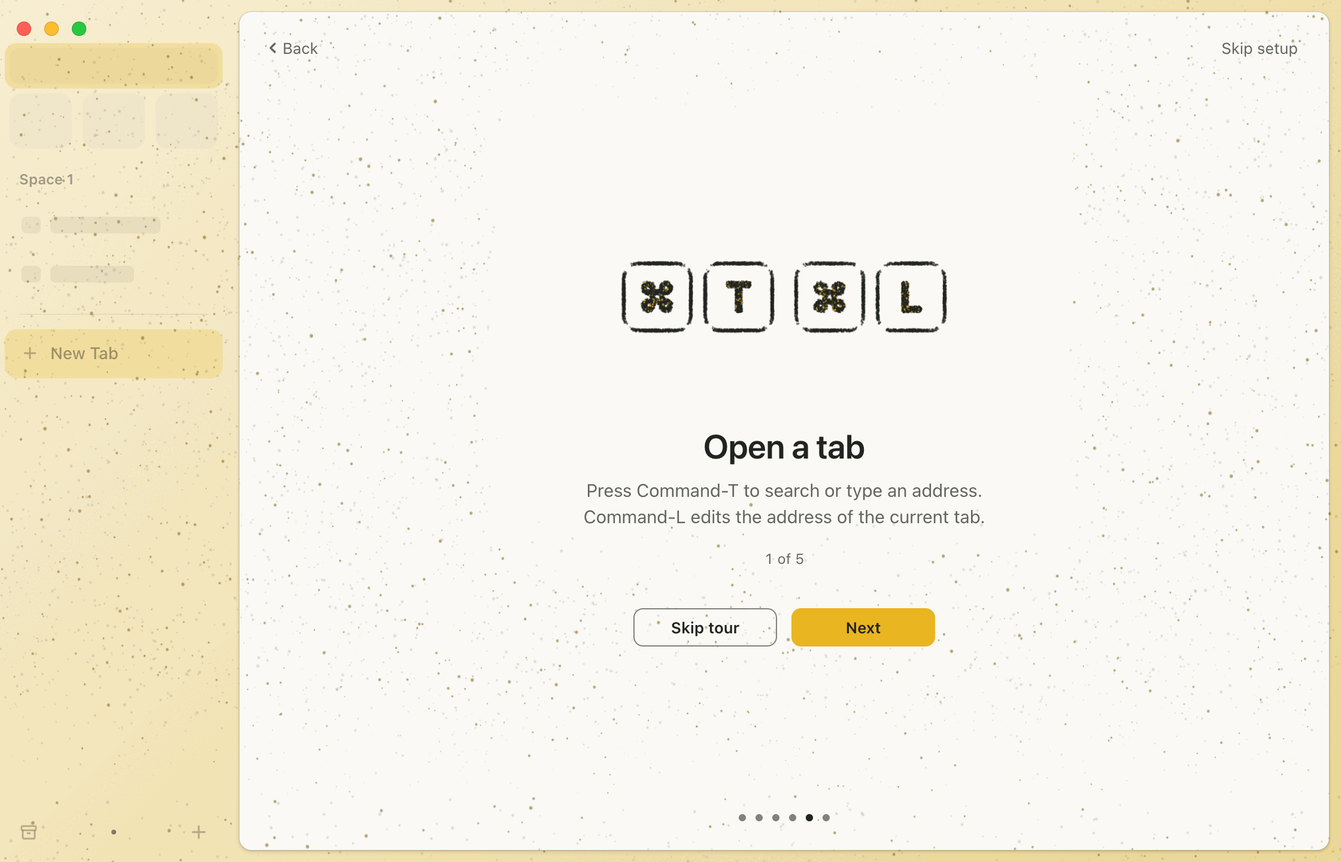
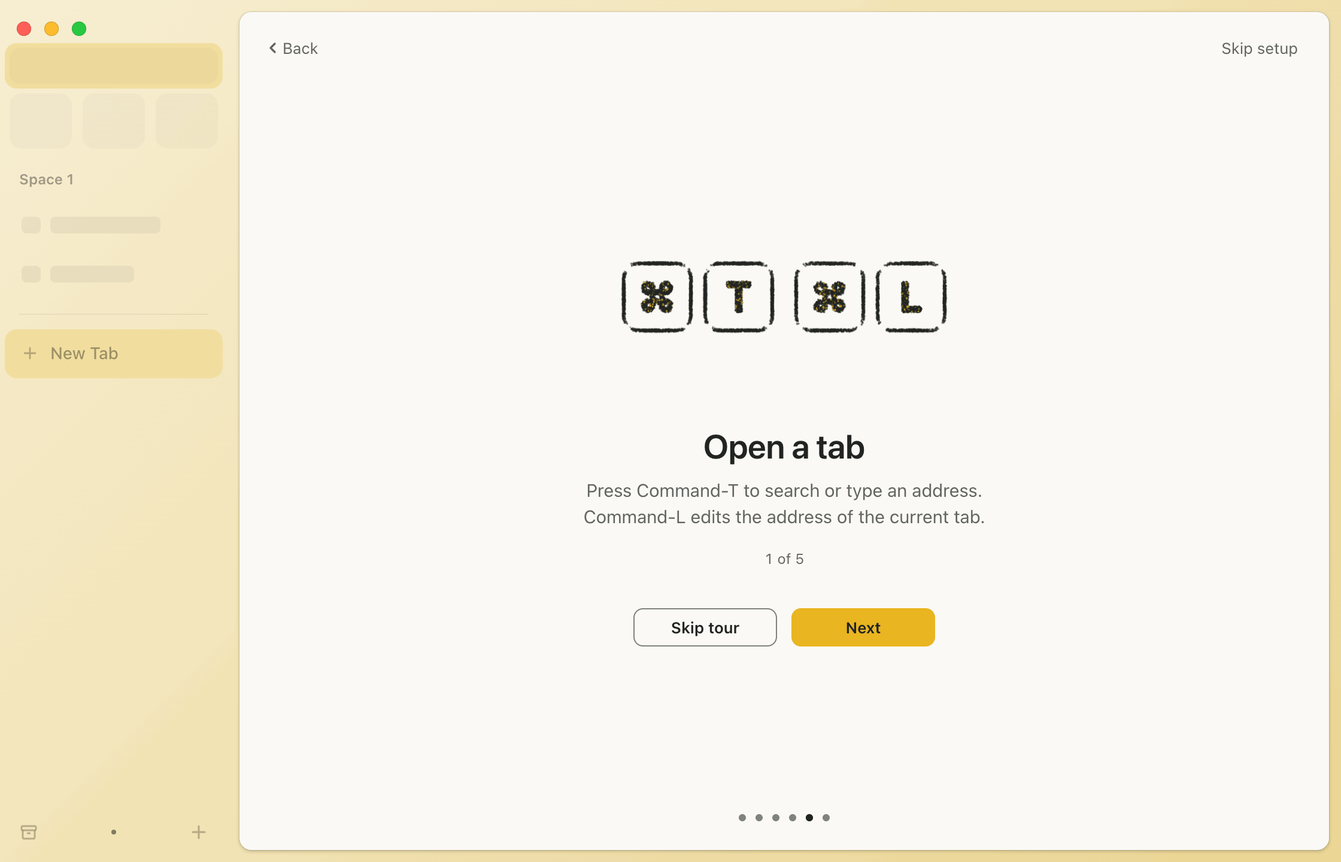
Onboarding spec: particle field section, native Metal spec, motion rows (refs #303)

diff --git a/design/onboarding/prototype.html b/design/onboarding/prototype.html
@@ -1637,7 +1637,7 @@ body.rt .cmdbar { background: #1C1C20; }
       precision highp float; precision highp int; precision highp sampler2D;
       uniform sampler2D uPos, uVel, uCol, uFP, uFA, uFC;
       uniform int uK0, uK1;
-      uniform float uSwitchT, uClock, uT, uDt, uStill, uReduce, uStagger, uFlowRate, uPan, uFade, uThDark, uThSwitch;
+      uniform float uSwitchT, uClock, uT, uDt, uStill, uReduce, uStagger, uFlowRate, uPan, uFade, uThDark, uThSwitch, uRT;
       uniform vec4 uBurst;
       uniform vec2 uView, uSpring;
       uniform vec3 uInk, uSbInk, uAccent, uThA, uThB, uThA0, uThB0;
@@ -1702,6 +1702,8 @@ body.rt .cmdbar { background: #1C1C20; }
           float focus = 1.0 - smoothstep(0.2, 1.0, abs(A.x - uPan));
           col.a *= mix(0.22, 1.0, focus) * step(A.z, p.x) * step(p.x, A.w);
         }
+        // Reduce Transparency: no background field; formation particles at least 60 % alpha.
+        if (uRT > 0.5) { if (mode > 0.5 && mode < 1.5 && k != ${FM.theme}) col.a = 0.0; else if (col.a > 0.01) col.a = max(col.a, 0.6); }
         col.a *= uFade;
       }
       void main() {
@@ -1814,7 +1816,7 @@ body.rt .cmdbar { background: #1C1C20; }
       const f1 = (n, v) => gl.uniform1f(U(sim, n), v);
       f1("uSwitchT", switchT); f1("uClock", clock); f1("uT", still ? 7.3 : animT); f1("uDt", dt);
       f1("uStill", still ? 1 : 0); f1("uReduce", opt.reduceMotion ? 1 : 0); f1("uStagger", opt.reduceMotion ? 0.3 : 0.55);
-      f1("uFlowRate", flowRate); f1("uPan", pan); f1("uFade", fade); f1("uThDark", thDark); f1("uThSwitch", thSwitch);
+      f1("uFlowRate", flowRate); f1("uPan", pan); f1("uFade", fade); f1("uThDark", thDark); f1("uThSwitch", thSwitch); f1("uRT", opt.reduceTransparency ? 1 : 0);
       gl.uniform4f(U(sim, "uBurst"), burst[0], burst[1], opt.reduceMotion ? 0 : burst[2], burst[3]);
       gl.uniform2f(U(sim, "uView"), W, H); gl.uniform2f(U(sim, "uSpring"), SPRING[0], SPRING[1]);
       const v3 = (n, v) => gl.uniform3f(U(sim, n), v[0], v[1], v[2]);

diff --git a/docs/design/onboarding.md b/docs/design/onboarding.md
@@ -9,6 +9,7 @@ Status: design. Nothing here is implemented yet.
 ## Contents
 
 - [Decisions (maintainer, 2026-10-25)](#decisions-maintainer-2026-10-25)
+- [Particle field](#particle-field) (the hero of the flow; native Metal spec)
 1. [Idea](#1-idea)
 2. [Flow](#2-flow)
 3. [Shared layout](#3-shared-layout)
@@ -52,6 +53,13 @@ Answers to the seven open questions of the first draft. The rest of this documen
 - Idle progress dots at full `brandControlBorder`, which is darkened to #80837C / #868A82 so it keeps 3:1 on the
   card and on the hover and pressed fills (sections 3, 4).
 
+### Particle field (maintainer request, 2026-10-25)
+
+The first version read as too simple. The brand particle field from arkt.dev is now the hero of every step: a cloud
+gathers into the mark on Welcome, Arc data streams in mustard into the sidebar on Import, the field re-tints with the
+chosen theme, each tour tip is drawn in particles, and the field folds onto the card as the first page appears. See
+[Particle field](#particle-field). Everything decided and reviewed above stays as it is.
+
 ## 1. Idea
 
 Onboarding happens inside the real browser window, not in a separate wizard window. The window is already there,
@@ -68,6 +76,11 @@ first page will later appear.
   icon update the sidebar title and the dock as you type.
 - **Done is the browser.** The last step does not close a window. The card turns into the first tab's page and the
   command bar opens, ready for an address.
+
+- **The particle field carries it all.** One field of about twenty thousand motes lives between the card surface and
+  its content. Every step is a shape made of it, built from real things (the mark's own pixels, the Arc sidebar's
+  data, the theme's gradient, the keys and gestures being taught), and the motes keep moving inside each shape. It is
+  the same system as the website's, so the app's first minute looks like the brand people saw before installing.
 
 Everything else stays quiet: one centered column, system type, the brand's porcelain and graphite, mustard only on the
 primary button. Motion is reserved for moments that explain something (the fold, the step direction, the import
@@ -239,7 +252,7 @@ sentences, the lowercase name only as the wordmark artwork.
 | | |
 |---|---|
 | Surface | Full-window `surfaceBrand` field above the sidebar and card, with grain at about half the theme grain opacity. Traffic lights stay visible above it |
-| Mark | `01-mustard-on-white.png` in light, `02-mustard-on-graphite.png` in dark, 112 x 112 pt, centered (clear space well above a quarter of the icon). Raster, scaled proportionally, no shadow or effect |
+| Mark | A 112 x 112 pt frame, centered (clear space well above a quarter of the icon). The mark appears only as particles sampled from `01-mustard-on-white.png` (formation `mark`). Without the particle layer it is the raster PNG (`01` light, `02` dark), scaled proportionally, no shadow or effect. The frame keeps the accessibility label "Arkt" either way |
 | Wordmark | `wordmark-graphite.png` in light, `wordmark-ivory.png` in dark, 90 x 38 pt (the 180 x 76 px source at 2x), 32 below the mark |
 | Descriptor | "A native macOS browser." SF Pro Display Regular 17/22, `brandTextSecondary`, 16 below the wordmark |
 | Primary | "Get started", 48 below the descriptor |
@@ -354,6 +367,9 @@ through tips before leaving the tour. A matching area of the ghost sidebar is hi
 | 4 | Split the view | Drag a tab from the sidebar onto the page to see two tabs side by side. | Mini window: a tab chip travels from the sidebar to the page, a drop zone shows, the page splits | Pinned rows | GS-011, BH-117 |
 | 5 | Keep Favorites close | Drag a tab to the top of the sidebar to make it a Favorite. | Mini window: a tab chip travels up into the Favorites row | Favorites | GS-008, BH-047 |
 
+With the particle layer, each tip's illustration is its particle formation (`tour1` to `tour5`, see
+[Particle field](#particle-field)); the key caps and mini-window demos below are the fallback without it.
+
 Key caps: 64 high, min 64 wide, radius 14, SF Pro Display Medium 28, `brandControlFill` with a hairline border and a
 3 pt hairline bottom edge. Key glyphs are the Command symbol and the letter, drawn as text, not images. Mini window:
 280 x 152, radius 12, a 72 wide sidebar strip and a page inset 4; the moving chip is an `accent` fill.
@@ -367,7 +383,7 @@ pinned, which the tip does not need to explain.
 
 | | |
 |---|---|
-| Mark | The app icon at 64 pt, 32 above the title |
+| Mark | A 64 pt mark frame, 32 above the title, drawn as particles (formation `doneMark`); the PNG icon without the particle layer |
 | Title | You're all set |
 | Body | Your Space is ready. To see this again, choose Help > Welcome to Arkt. |
 | Buttons | **Start browsing** |
@@ -422,8 +438,8 @@ ease-in.
 
 | ID | Trigger | What moves | Spec | Interruptible |
 |---|---|---|---|---|
-| M1 Welcome reveal | Window first shown | Mark: opacity 0 to 1, translateY 8 to 0, scale 0.92 to 1. Wordmark: mask wipe left to right plus opacity. Descriptor: opacity, translateY 6 to 0. Button and Skip setup: opacity | Mark `springy` at +120 ms; wordmark 420 ms `EASE_OUT` at +300 ms; descriptor `firmSlow` at +440 ms; button and corner link 240 ms `EASE_OUT` at +560 ms. All settled by about 900 ms | Yes: Return or a click at any moment jumps every element to its end value and starts M2 |
-| M2 Fold | Get started | The field's mask from the window bounds (radius 0) to the card frame (radius 10). Welcome content: opacity 1 to 0, scale 1 to 0.97. The field itself: opacity 1 to 0 in the last part. Ghost sidebar items: opacity 0 to 0.55, 30 ms apart. First step: enters as M3 | Mask `firmSlow` at +60 ms; content `firmFast`; field opacity 200 ms `EASE_OUT` at +200 ms; sidebar items 240 ms `EASE_OUT` from +120 ms; first step starts at +140 ms. About 520 ms total | Yes: a second press of Return lands the first step at once (mask and opacities snap to end) |
+| M1 Welcome reveal | Window first shown | Mark: a loose cloud gathers into it (P1). Wordmark: mask wipe left to right plus opacity. Descriptor: opacity, translateY 6 to 0. Button and Skip setup: opacity | Mark: P1, landed by about 1.8 s; wordmark 420 ms `EASE_OUT` at +1200 ms; descriptor `firmSlow` at +1340 ms; button and corner link 240 ms `EASE_OUT` at +1460 ms. Without the particle layer: the mark fades and scales in (`springy`, opacity 0 to 1, translateY 8 to 0, scale 0.92 to 1, at +120 ms) and the type follows 900 ms earlier | Yes: Return or a click at any moment jumps the type to its end value and starts M2; the particles keep travelling and retarget |
+| M2 Fold | Get started | The field's mask from the window bounds (radius 0) to the card frame (radius 10). Welcome content: opacity 1 to 0, scale 1 to 0.97. The field itself: opacity 1 to 0 in the last part. Ghost sidebar items: opacity 0 to 0.55, 30 ms apart. First step: enters as M3. Particles: the mark streams into the first step's formation (P2) | Mask `firmSlow` at +60 ms; content `firmFast`; field opacity 200 ms `EASE_OUT` at +200 ms; sidebar items 240 ms `EASE_OUT` from +120 ms; first step starts at +140 ms. About 520 ms total | Yes: a second press of Return lands the first step at once (mask and opacities snap to end) |
 | M3 Step forward | Continue, Skip, Next, Right arrow (to a step already visited) | Outgoing column: opacity 1 to 0, translateX 0 to -24. Incoming column: opacity 0 to 1, translateX +24 to 0. Progress dot: translateX to the new slot | Outgoing `firmFast`; incoming `firm` at +70 ms; dot `springyFast` | Yes: a new navigation retargets from the presented values (the in-flight incoming column becomes the outgoing one from where it is) |
 | M4 Step back | Back, Left arrow | Mirror of M3 (outgoing to +24, incoming from -24) | Same as M3 | Same as M3 |
 | M5 Tip change | Next or Back inside the tour | Illustration, title and body: as M3 at 16 pt, 30 ms stagger on the way in. Highlight: the old one opacity to 0 and scale to 0.97, the new one opacity to 1, scale 0.97 to 1 | Out `firmFast`, in `firm`; highlight in `firmSlow`, out `firmFast`. Each highlight is its own layer at its target's frame, so nothing resizes | Yes |
@@ -433,7 +449,7 @@ ease-in.
 | M9 Sidebar fills | Import finished | Imported Favorites and rows: opacity 0 to 1, translateY 6 to 0 | `firm`, 30 ms apart, the first 12 items only; the rest appear without motion | n/a |
 | M10 Key cap press | Tips 1 and 2 appear | Each key: translateY 0 to 2 and scale 0.96 over 90 ms `EASE_OUT`, then back with `springyFast`; second key 70 ms after the first | Plays once per tip, 260 ms after the tip appears | n/a |
 | M11 Tour demos | Tips 3 to 5 appear | Swipe: finger dots fade in and slide 24 (360 ms `EASE_IN_OUT`), the sidebar pages over (`springy`). Split: chip travels 800 ms `EASE_IN_OUT`, drop zone fades in, then the page splits (200 ms fades). Favorite: chip travels 700 ms `EASE_IN_OUT` up into the Favorites row, the tile pops in with `springyFast` from scale 0.9 | Each demo plays twice, then rests on its end frame. They never loop forever | Leaving the tip stops the demo at once |
-| M12 Finish | Start browsing, Skip setup | Card content: opacity to 0. Page surface: opacity 0 to 1. Ghost content: opacity 0.55 to 1. Command bar: its own normal presentation | Content 160 ms `EASE_OUT`; page 240 ms `EASE_OUT` at +80 ms; command bar after the page settles (+320 ms). Skip setup uses the same path, no extra flourish | n/a |
+| M12 Finish | Start browsing, Skip setup | Card content: opacity to 0. Particles: fold onto the card's edge (P9). Page surface: opacity 0 to 1 over them. Ghost content: opacity 0.55 to 1. Command bar: its own normal presentation | Content 160 ms `EASE_OUT`; P9 from 0; page 240 ms `EASE_OUT` at +650 ms (+80 ms without the particle layer); particle fade from +900 ms; command bar at +900 ms (+320 ms without). Skip setup uses the same path, no extra flourish | n/a |
 | M13 Press | Any button or swatch | Scale to 0.97 (swatches 0.95, icons 0.94) on press, back on release, together with the pressed fill | 160 ms `EASE_OUT` (the existing press feel); no hover motion, only fill color | Yes |
 | M14 Skip setup confirmation | Skip setup, Escape on Welcome | The system sheet animation of `NSAlert`; nothing custom. The prototype approximates it with opacity and a 0.97 scale on `firm` | System | System |
 
@@ -446,7 +462,7 @@ once-per-install flow, not a 100-times-a-day shortcut, and the motion is what sh
 
 | ID | Reduce Motion variant |
 |---|---|
-| M1 | Every element fades in together, 250 ms `EASE_OUT`; no scale, no translation, no wipe |
+| M1 | Every element fades in together, 250 ms `EASE_OUT`; no scale, no translation, no wipe. The particle mark appears in place (P-RM below) |
 | M2 | The field crossfades out (240 ms `EASE_OUT`) over the card and sidebar, which are already in place; no mask animation |
 | M3, M4, M5 | Crossfade only: outgoing 200 ms, incoming 200 ms `EASE_OUT`; no translation. The progress dot jumps |
 | M6 | The theme snaps (what `ThemeBackgroundView` already does under Reduce Motion); the swatch ring fades without scaling; the thumb jumps |
@@ -454,6 +470,7 @@ once-per-install flow, not a 100-times-a-day shortcut, and the motion is what sh
 | M9 | Fades only, no translateY |
 | M10 | No key press |
 | M11 | No demo motion; each demo shows its end frame (the split page, the new Favorite, the second Space page) |
+| P1 to P10 | See "Reduce Motion" in [Particle field](#particle-field): shapes still change with each step, nothing travels on its own |
 | M12 | Unchanged (it is already fades only) |
 | M13 | No press scale. The pressed fill still changes: `accentPressed` on the primary button, `brandControlFillPressed` on secondary buttons, Back and Skip setup, the selected-state fill on swatches and icons |
 
@@ -486,6 +503,155 @@ grows to 3 pt.
   pacing checks can cover them.
 - Retarget, never restart: a new transition reads the presentation layer's current value as its `fromValue`.
 - No blur, no shadow-path animation, no `CIFilter` during transitions.
+- The particle field is the one exception to "layer opacity and transform only": it is a single Metal layer whose
+  contents the GPU redraws each frame within its own budget ([Particle field](#particle-field)); it never causes view
+  layout or text rendering.
+
+## Particle field
+
+The brand particle field from the website (arkt.dev: `design/website.md`, "Particles"; `docs/landing-design.md`,
+"Particle system"; `src/scripts/world.js`) is the hero of the onboarding. Same rules: one field carries the whole
+flow, every step is a shape made of it, shapes come from real things, motes keep moving inside each shape, the logo
+appears only as particles sampled pixel by pixel from the approved PNG (never redrawn), mustard sparks, additive glow
+for mustard in dark, and with Reduce Motion shapes still change but nothing travels on its own.
+
+### Layering
+
+From back to front: Space theme background, sidebar, card surface (`surfaceBrand`), Welcome field surface (while it is
+shown), **particle layer** (whole window), card content (titles, controls), Welcome content, traffic lights, sheets.
+The particle layer therefore passes over the sidebar and the card surface but never over text or controls. It never
+receives events, focus or accessibility (section "Accessibility" below).
+
+### Stages
+
+Each step reserves a place in its column for its shape, so particles never sit behind text:
+
+| Step | Stage | Size |
+|---|---|---|
+| Welcome | The mark frame | 112 x 112 pt |
+| Import, Default browser, Extensions | A stage at the top of the column, 24 above the title | 440 x 160 pt (compact: 96 high, 16 above the title) |
+| Make it yours | No stage: the field rises in the margins of the card and over the sidebar, clear of the 440 column (plus 40 pt) | n/a |
+| Tour | The illustration area | 440 x 152 pt (compact 120) |
+| You're all set | The mark frame | 64 x 64 pt |
+| Finish | The card's edge | the card frame, radius 10 |
+
+Shapes stretch beyond their stage where the story needs it: the import stream flows out of the card into the
+sidebar, the archive tip's stream lands on the sidebar's Archive button, the default-browser stream enters from the
+left edge of the window.
+
+### Formations
+
+Particle count N = 20,480 (Apple Silicon), 8,192 (fallback tier, below). Each formation assigns every particle a
+target, a mode and a color; lanes of the particle index (index mod 20) split a formation into parts, as on the
+website. Colors: ink is `brandTextPrimary` over the card and `ShellTokens.primaryText` over the sidebar; mustard is
+`accent`; theme colors come from the selected Space theme.
+
+| Formation | Shape (from real things) | Parts (share of N) | Modes |
+|---|---|---|---|
+| `cloud` | A loose cloud over the whole window, invisible at first | all | static |
+| `mark` (Welcome) | The mark, 66 % of the frame height, each mote taking the position and color of a pixel of `01-mustard-on-white.png` (kept: alpha above 200 and saturation above 70, sampled at 140 px) | mark 65 %, mustard orbit sparks 10 %, faint rising field 25 % | logo shimmer, orbit, rising |
+| `lines` (Import: counting, failed) | A sketch of the Arc sidebar in the stage: panel outline, three Favorites, eight rows | sketch 60 %, mustard sparks 10 %, field 30 % | static |
+| `flow` (Import: ready and importing) | The website's chapter 2: the sketch, and motes leaving it along arcs into the real sidebar (Favorites tiles, Space title, pinned rows, Space dots), mustard in flight, settling in sidebar ink | sketch 50 %, stream 30 %, field 20 % | static, flow (rate 0.12 per second when ready, 0.45 while importing) |
+| `landed` (Import: imported) | A faint trace on the imported rows and tiles, a few mustard sparks | trace 25 %, sparks 5 %, field 20 %, rest parked (alpha 0) | static, shimmer |
+| `theme` (Make it yours) | A rising field in the selected theme's gradient (darkened 38 % over light themes, lightened 50 % over dark), in the card margins and over the sidebar | theme field 40 %, mustard sparks 5 %, rest parked | rising |
+| `def` (Default browser) | A small particle mark with a mustard stream arriving from the left edge of the window (links from other apps) | mark 45 %, stream 15 %, field 40 % | logo, flow |
+| `ext` (Extensions) | A small particle mark inside three tilted rings of clusters, a third of them mustard (the website's extension rings) | mark 25 %, rings 60 %, field 15 % | logo, orbit |
+| `tour1` | Key caps Command-T and Command-L: rounded outlines plus glyphs sampled from San Francisco | caps 70 %, field 30 % | static |
+| `tour2` | Key caps Command-W, and a stream from them into the sidebar's Archive button | caps 70 %, stream 10 %, field 20 % | static, flow |
+| `tour3` | Three Space rooms (outline, three Favorites, four rows) in Dune, Mist and Blossom, paging over twice, then resting on the second | rooms 80 %, field 20 % | pan |
+| `tour4` | A window with a sidebar strip and the page split into two panes; a mustard chip flows from a row into the right pane | window 65 %, stream 15 %, field 20 % | static, flow |
+| `tour5` | A window whose third Favorite tile fills in mustard as a chip flows up into it from a row | window 65 %, stream 15 %, field 20 % | static, logo, flow |
+| `doneMark` | The mark in the 64 pt frame, with sparks | as `mark` | logo, orbit, rising |
+| `card` (Finish) | The card's edge, mustard sparks along it, a faint fill | edge 60 %, sparks 15 %, fill 25 % | static, shimmer |
+
+Shapes are measured from the live layout when their step appears (counts, tip text and compact layout change the
+column), at the views' resting positions, not their in-flight transforms.
+
+### Motion
+
+Every particle has a position, a velocity and a color. Each frame it moves toward its current target on
+`SpringPreset.firmExtraSlow` (damping 0.9, response 1.25 s), with curl-like turbulence proportional to its distance
+from the target, so travel swirls and arrival is calm. When it arrives (within 1.2 pt, slower than 20 pt/s) it locks
+to the target, and the target itself moves (shimmer, rising, orbit, flow, pan). A new formation does not restart
+anything: each particle switches target at `seed x 0.55 s` after the change and springs on from where it is, carrying
+its velocity. This makes every change interruptible.
+
+| ID | Trigger | What moves | Spec |
+|---|---|---|---|
+| P1 Gather | Welcome shown | `cloud` to `mark`: the cloud fades in (alpha toward target, rate 4/s) while it gathers | firmExtraSlow, stagger 0.55 s; mark readable at about 1.2 s, landed by about 1.8 s |
+| P2 Fold | Get started | `mark` to the first step's formation, while M2 runs | firmExtraSlow, stagger 0.55 s |
+| P3 Step change | Any step change (M3, M4) | Previous formation to the new one; turbulence while travelling | firmExtraSlow, stagger 0.55 s; the column's own M3/M4 runs on top |
+| P4 Import stream | Import ready, importing | Motes wait at the sketch (35 % of a cycle), then travel a Bezier arc to their sidebar target, mustard until the last 20 % of the path | Rate 0.12/s when ready, 0.45/s while importing; each mote's rate varies 0.7x to 1.3x |
+| P5 Landed | Import finished (M9) | Stream to `landed` | firmExtraSlow |
+| P6 Re-tint | Swatch or appearance change (M6) | A ring expands from the pressed swatch at 900 pt/s; inside it motes take the new theme colors, and the ring pushes them outward by up to 22 pt as it passes | Ring falloff 70 pt, decays over 1.2 s; the window background's 0.28 s crossfade runs at the same time |
+| P7 Tip change | Tour Next, Back (M5) | Tip formation to the next | firmExtraSlow, stagger 0.55 s |
+| P8 Room paging | Tip 3 shown | Rooms pan one room left at +1.4 s, again at +3.0 s, back to the second at +4.6 s | Pan eases at 4/s (exponential) |
+| P9 Finish | Start browsing, Skip setup | Current formation to `card`; the page fades in over it at +650 ms; the field fades out from +900 ms (6/s); the layer stops and is removed | firmExtraSlow |
+| P10 Idle | While a step rests | Shimmer (0.35 to 0.9 pt), rising field (6 to 20 pt/s), orbits (0.1 to 0.3 rad/s), flows | Continuous; paused per the rules below |
+
+### Reduce Motion, Reduce Transparency, Increase Contrast
+
+- **Reduce Motion:** shapes still change with every step; nothing travels. On a change each particle disappears from
+  the old shape and reappears in place in the new one (alpha from 0, rate 9/s), at `seed x 0.3 s`, so the shapes
+  cross-dissolve in about half a second. The animation clock stops: no shimmer, rising, orbit, flow or paging
+  (streams show a frozen frame of their path, the tour rooms rest on the second room). No ripple; the re-tint is a
+  0.28 s crossfade. The welcome mark appears in place. Frames are rendered only while something changes.
+- **Reduce Transparency:** no additive blending in dark, the faint rising background field is not drawn (the theme
+  step's field is its formation and stays), formation particles draw at least at 60 % alpha and 15 % larger, no grain.
+- **Increase Contrast:** formation particles draw at least at 80 % alpha; on light surfaces mustard sparks use
+  `foldShadow` (#A96E12, 4.4:1 on porcelain) instead of mustard.
+
+### Native implementation (Metal)
+
+- **Layer:** a layer-backed `NSView` hosting a `CAMetalLayer` (or an `MTKView` with `isPaused = true` and manual
+  draws), framed to the window's content bounds, inserted above the card surface layer and below the card content
+  view. `pixelFormat .bgra8Unorm`, `framebufferOnly = true`, `isOpaque = false`, `contentsScale` = the window's
+  backing scale (1x and 2x).
+- **Data:** formations in `MTLBuffer`s (per particle: float4 target and mode, float4 parameters, float4 color; 48
+  bytes x N x 15 formations, about 15 MB at N = 20,480), built off the main thread from layout rects when a step
+  appears; only the shown formation is rebuilt. State in two ping-pong buffers (position and arrived flag, velocity
+  and formation index, color).
+- **Per frame:** one compute kernel (one thread per particle, threadgroups of 256) evaluates the target (mode math
+  as in the prototype's simulation shader), integrates the spring with the frame's real `dt` (clamped to 1/30 s), and
+  writes the next state; then one draw of N point sprites (or instanced 2 x 2 quads), soft round disc in the fragment
+  function, alpha blending in light, additive in dark.
+- **Timing:** driven by the window screen's `CADisplayLink` (`NSView.displayLink(target:selector:)`), preferred
+  frame rate range 80 to 120 Hz, preferred 120. Uniforms only from the CPU per frame.
+- **Budget (Apple Silicon, 2x, 120 Hz):** N = 20,480; GPU time at most 1.0 ms per frame on M1 (compute about 0.1 ms,
+  draw about 0.4 ms), CPU at most 0.3 ms per frame for the display-link callback. `ShellSignposts` intervals around
+  each frame and Metal System Trace verify it; the existing frame-pacing probe must show no new hitches.
+- **Fallback tier:** N = 8,192 at 60 Hz when `ProcessInfo.isLowPowerModeEnabled`, when the thermal state is serious or
+  critical, on Intel GPUs, or when the measured GPU time exceeds 2 ms for 30 consecutive frames.
+- **No particle layer:** if Metal is unavailable or setup fails, the flow works unchanged without it: the raster mark
+  on Welcome and Done, the key caps and demos of the first draft in the tour (section 5.6), no stage space reserved.
+- **Pause:** no frames while the window is occluded (`occlusionState` without `.visible`), miniaturized, the app is
+  hidden, or with Reduce Motion once a change has settled. The layer and its buffers are released when the flow
+  ends (P9) and rebuilt by Help > Welcome to Arkt.
+- **Mark samples:** sampled once from the asset catalog's `01-mustard-on-white` image at 140 px (alpha above 200,
+  saturation above 70; about 6,600 samples), cached for the session. Never a vector redraw.
+- **Layout changes:** window resize and the compact layout rebuild the current formation; particles spring to the new
+  targets.
+
+### Accessibility
+
+The particle view is not an accessibility element and has no children (`setAccessibilityElement(false)`, hidden from
+the tree), never accepts first responder, and returns nil from `hitTest`, so it never steals clicks, focus or
+VoiceOver. Every fact a shape shows is also text: the counts list, the step titles and bodies, and an accessibility
+label on the stage of tip 1 and 2 ("Command T, Command L", "Command W"). VoiceOver users get the same flow with or
+without the particles.
+
+### Screens and keyframes
+
+| # | What it shows | Light | Dark |
+|---|---|---|---|
+| 22a | Welcome gather (P1) at 0.5 s | [22a-particles-welcome-gather-500ms-light.png](../../design/onboarding/screens/22a-particles-welcome-gather-500ms-light.png) | |
+| 22b | Welcome gather (P1) at 1.2 s | [22b-particles-welcome-gather-1200ms-light.png](../../design/onboarding/screens/22b-particles-welcome-gather-1200ms-light.png) | [22b-particles-welcome-gather-1200ms-dark.png](../../design/onboarding/screens/22b-particles-welcome-gather-1200ms-dark.png) |
+| 23 | Fold (M2 with P2) at 350 ms | [23-particles-fold-350ms-light.png](../../design/onboarding/screens/23-particles-fold-350ms-light.png) | |
+| 24 | Import stream (P4) 1.6 s into the import | [24-particles-import-stream-light.png](../../design/onboarding/screens/24-particles-import-stream-light.png) | [24-particles-import-stream-dark.png](../../design/onboarding/screens/24-particles-import-stream-dark.png) |
+| 25 | Re-tint ripple (P6) 300 ms after picking Sage | [25-particles-theme-ripple-300ms-light.png](../../design/onboarding/screens/25-particles-theme-ripple-300ms-light.png) | |
+| 26 | Finish (P9) at 600 ms, the field folding onto the card | [26-particles-finish-600ms-light.png](../../design/onboarding/screens/26-particles-finish-600ms-light.png) | [26-particles-finish-600ms-dark.png](../../design/onboarding/screens/26-particles-finish-600ms-dark.png) |
+
+The settled step screenshots in section 14 (01 to 15, 17 to 21) all show the particle field.
 
 ## 7. Keyboard
 
@@ -600,6 +766,8 @@ Arc's onboarding was not inspected for this design. Known rows:
 6. **Help menu item** and an `AppCommands` action that starts the flow on the key window.
 7. **Engine-only step.** The extensions step needs a build-configuration check (Chromium engine vs WKWebView shell).
 8. **Window frame.** The first-run window frame is at least 1000 x 680 pt, clamped to the screen's visible frame.
+9. **Particle layer.** A Metal particle view in ShellUI (compute kernel, point draw, formation builder, mark sampler,
+   display-link driver, fallback tier), per [Particle field](#particle-field).
 
 ## 13. Open questions (resolved)
 
@@ -640,11 +808,12 @@ Rendered from the prototype with the project's Chromium build in headless mode, 
 | 18 | Tour 1 with Reduce Transparency (opaque highlight, no grain) | [18-tour-1-reduce-transparency-light.png](../../design/onboarding/screens/18-tour-1-reduce-transparency-light.png) | [18-tour-1-reduce-transparency-dark.png](../../design/onboarding/screens/18-tour-1-reduce-transparency-dark.png) |
 | 19a | Fold (M2) paused at about 160 ms | [19-motion-a-fold-160ms-light.png](../../design/onboarding/screens/19-motion-a-fold-160ms-light.png) | [19-motion-a-fold-160ms-dark.png](../../design/onboarding/screens/19-motion-a-fold-160ms-dark.png) |
 | 19b | Fold (M2) paused at about 320 ms | [19-motion-b-fold-320ms-light.png](../../design/onboarding/screens/19-motion-b-fold-320ms-light.png) | [19-motion-b-fold-320ms-dark.png](../../design/onboarding/screens/19-motion-b-fold-320ms-dark.png) |
-| 19c | Step forward (M3) paused at about 100 ms | [19-motion-c-step-100ms-light.png](../../design/onboarding/screens/19-motion-c-step-100ms-light.png) | [19-motion-c-step-100ms-dark.png](../../design/onboarding/screens/19-motion-c-step-100ms-dark.png) |
+| 19c | Step forward (M3, with P3) paused at about 100 ms | [19-motion-c-step-100ms-light.png](../../design/onboarding/screens/19-motion-c-step-100ms-light.png) | [19-motion-c-step-100ms-dark.png](../../design/onboarding/screens/19-motion-c-step-100ms-dark.png) |
 | 20 | Make it yours after an import ("From Arc" swatch selected, Appearance disabled) | [20-theme-after-import-light.png](../../design/onboarding/screens/20-theme-after-import-light.png) | [20-theme-after-import-dark.png](../../design/onboarding/screens/20-theme-after-import-dark.png) |
 | 21 | Make it yours, compact layout (window 1000 x 620 pt) | [21-theme-compact-light.png](../../design/onboarding/screens/21-theme-compact-light.png) | [21-theme-compact-dark.png](../../design/onboarding/screens/21-theme-compact-dark.png) |
 
-Reduce Motion end states are identical to the ones above (section 6.2), so they are not duplicated.
+Reduce Motion end states are identical to the ones above (section 6.2), so they are not duplicated. Particle
+keyframes are listed in [Particle field](#particle-field). 16 (the browser) is unchanged: the field has gone by then.
 
 ## 15. Prototype
 
@@ -662,3 +831,7 @@ It has no network access and no dependencies.
   unlike `SpringDriver`, they do not carry velocity.
 - Stand-ins: icons are simple SVG drawings in place of SF Symbols; the grain is a generated noise tile; Arc data is
   sample counts; the system default-browser prompt is not shown.
+- The particle field is WebGL2 (a float-texture simulation pass and a point draw) standing in for the Metal layer.
+  The mark samples are embedded in the file (sampled from `01-mustard-on-white.png` at 140 px) because a page opened
+  from `file://` may not read image pixels. Without WebGL2 the prototype falls back to the raster marks and the CSS
+  demos. `?manual=1` freezes the particle clock so `window.__particles.advance(seconds)` can step it for keyframes.
